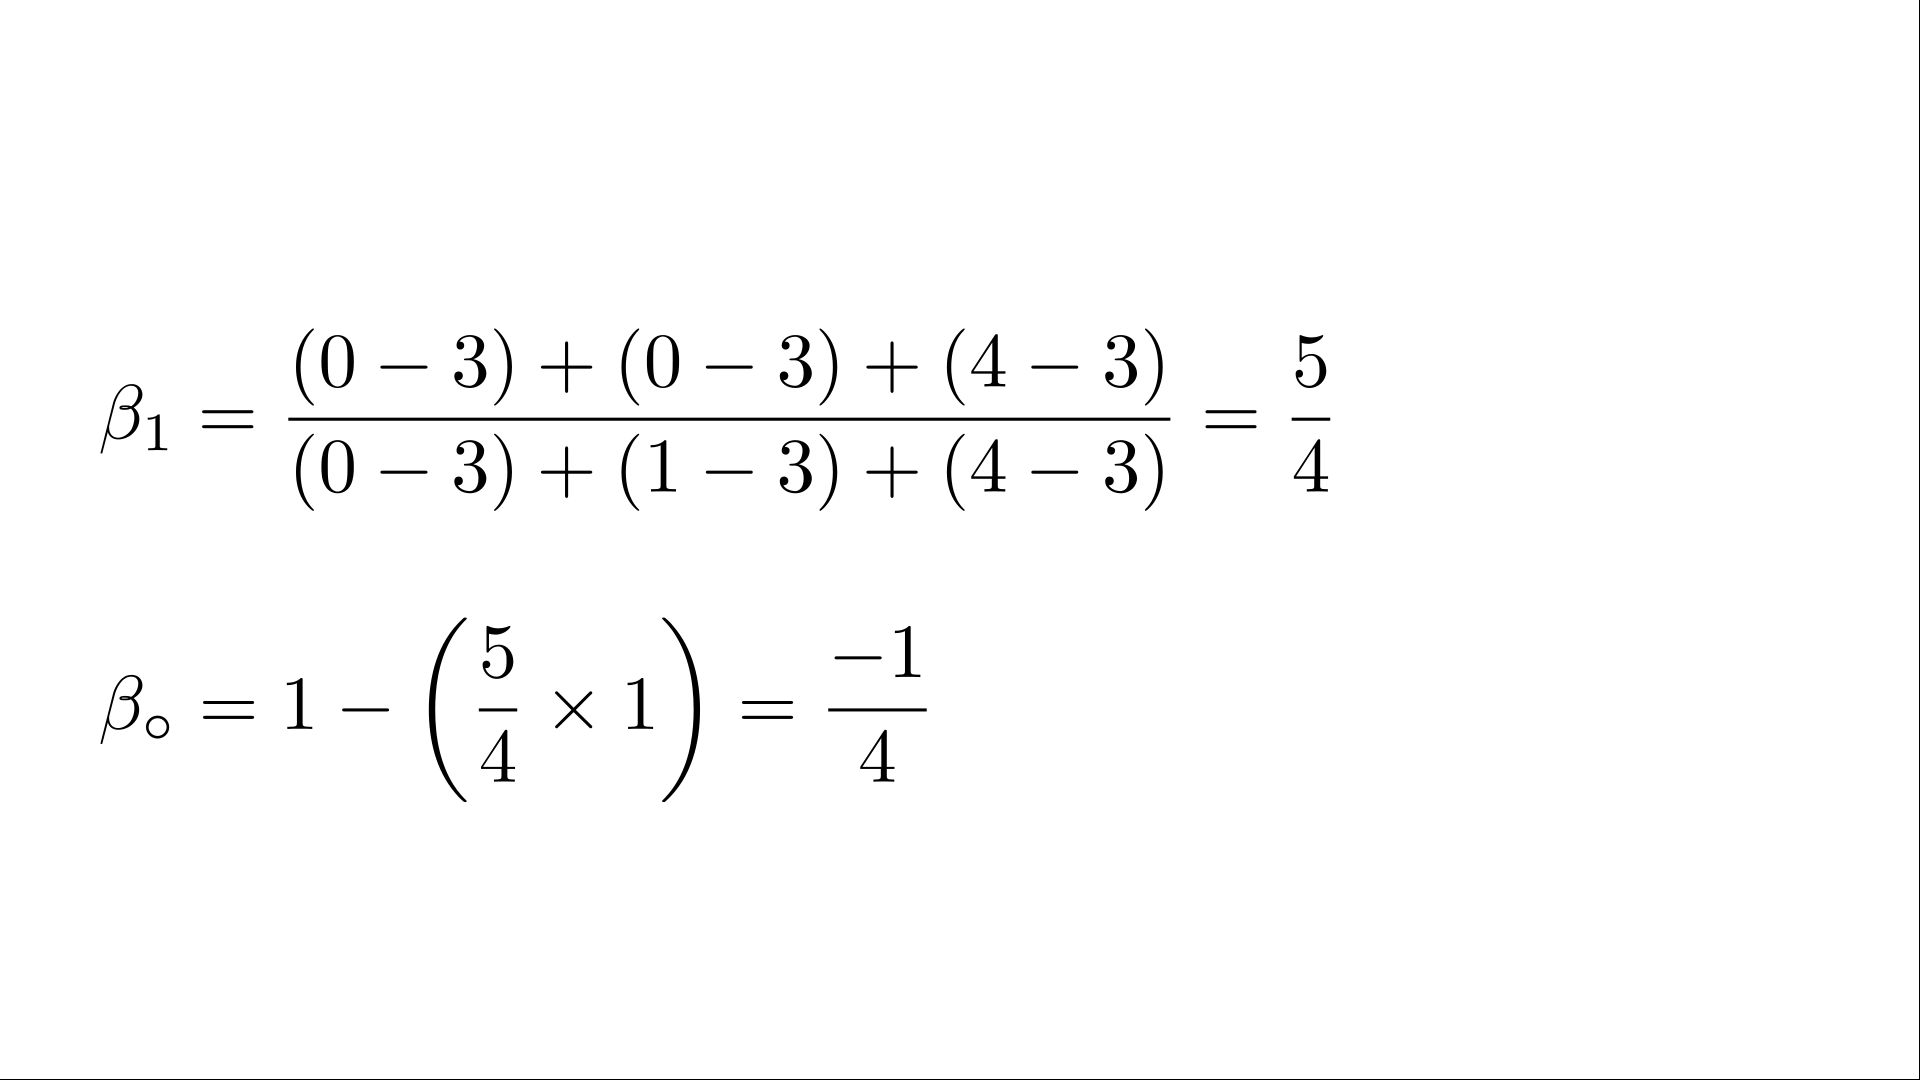
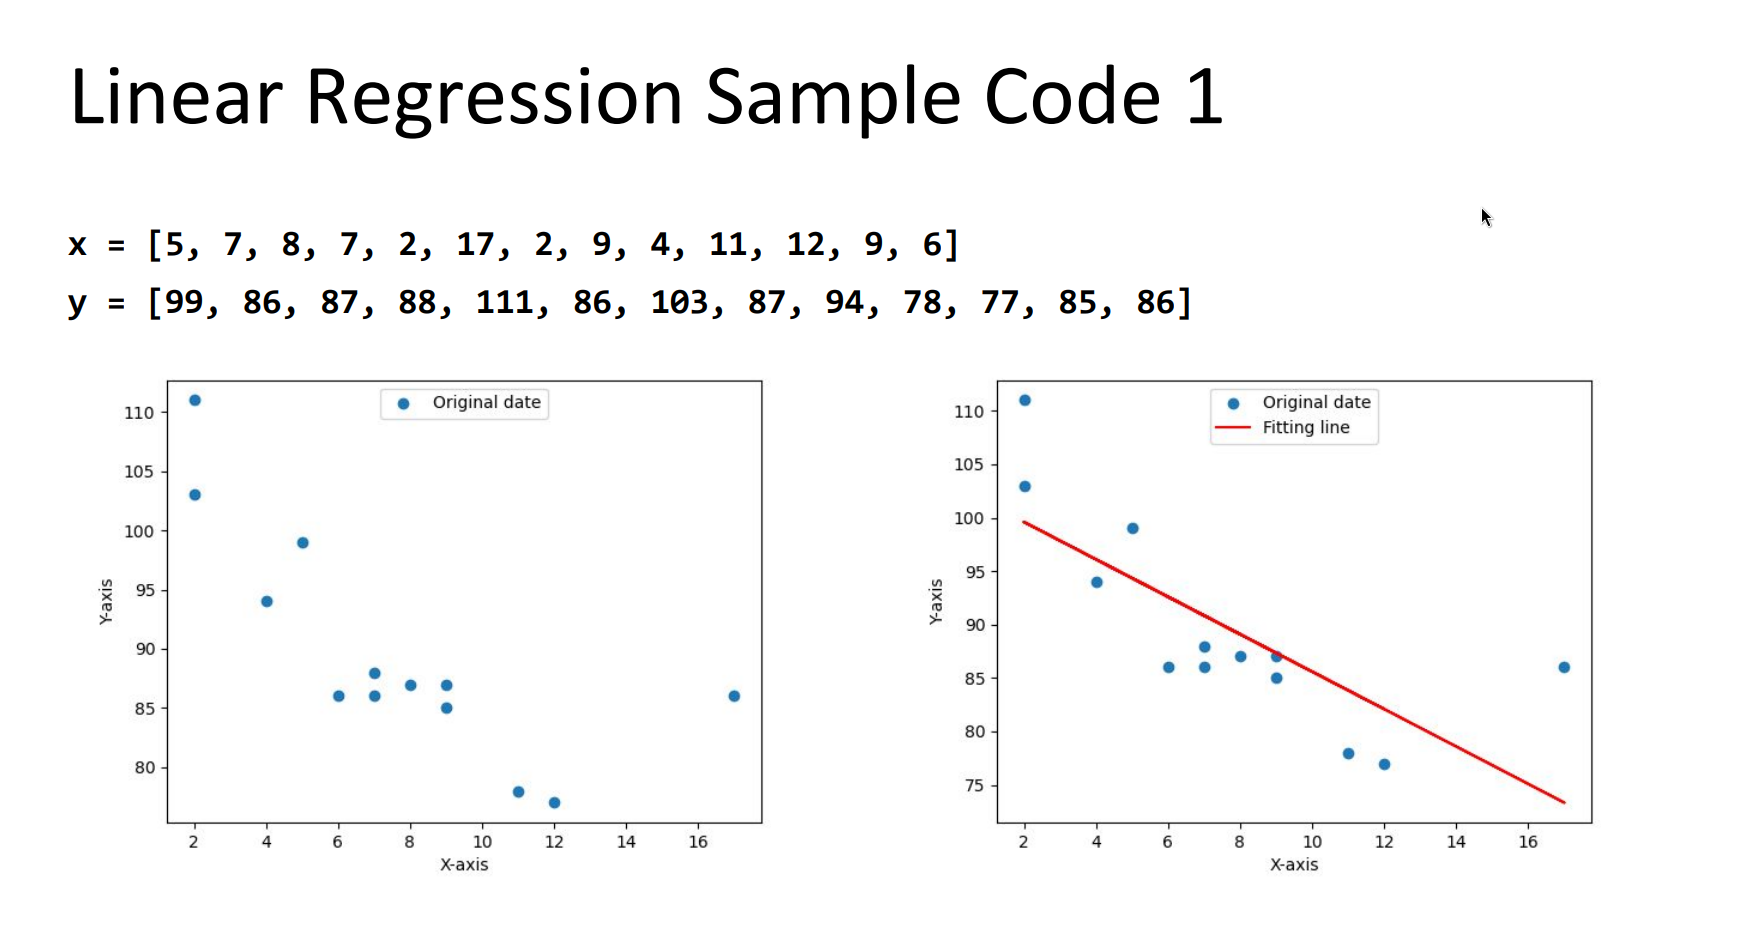
update

diff --git a/lab-one/model.py b/lab-one/model.py
@@ -15,8 +15,8 @@ class Model:
         self.n = len(x)
 
     def linear_regression(self):
-        self.beta_one = sum(np.subtract(self.x_y, self.n * self.x_bar * self.y_bar)) / sum(
-            np.subtract(self.x_square, self.n * self.x_bar ** 2))
+        self.beta_one = (sum(self.x_y) - self.n * self.x_bar * self.y_bar) / (sum(
+            self.x_square) - self.n * self.x_bar ** 2)
         self.beta_note = self.y_bar - self.beta_one * self.x_bar
         return {"beta_note": self.beta_note, "beta_one": self.beta_one}
 
@@ -24,10 +24,11 @@ class Model:
     def plot_line(self):
         intercept = self.linear_regression()["beta_note"]
         slope = self.linear_regression()["beta_one"]
-        x = np.linspace(-2, 3, 10)
+        x = np.linspace(1, 16, 100)
         y = [slope * i + intercept for i in x]
-        plt.scatter(self.x_input, self.y_observed, label="Original date")
-        plt.plot(x, y, color="red", label="Fitting line")
+        plt.scatter(self.x_input, self.y_observed, color="orange", label="Original date")
+        plt.plot(x, y, color="green", label="Fitting line")
+        plt.legend(loc='upper center')
         plt.show()
 
 

diff --git a/lab-one/main.py b/lab-one/main.py
@@ -1,6 +1,6 @@
 import model
-x = [1, 0, 2]
-y = [0, 1, 2]
+x = [5, 7, 8, 7, 2, 17, 2, 9, 4, 11, 12, 9, 6]
+y = [99, 86, 87, 88, 111, 86, 103, 87, 94, 78, 77, 85, 86]
 
 
 m = model.Model(x, y)

diff --git a/lab-one/README.md b/lab-one/README.md
@@ -22,12 +22,24 @@ Optimization technique without constrains to find β∘  and  β1.
 
 ![](figures/img_4.png)
 
-# Example
+# Example 1
 Given three points (0, 1), (1, 0) and (2, 2). Find β∘  and  β1 for a simple linear regression model.  
 
 ![](figures/img_5.png)
-![](figures/img_6.png)
+![](figures/img_8.png)
 ![](figures/img_7.png)
+
+# Example 2
+## 2.1 With SciPy
+Recall [this example](https://github.com/qassasahmed/neural-networks-labs/blob/master/lab-1/linear-regression.py) from the introduction of **Neural Networks course Fall 2023-24**, We've used **Python's Scipy** to implement linear regression.
+![](figures/img_6.png)
+## 2.2 From scratch
+Now, we've implemented [***linear regression from scratch***](https://github.com/qassasahmed/machine-learning/tree/main/lab-one), and we got the same result shown below.
+
+![](figures/img_9.png)
+
+# Thank You :) <3
+
 
 
 
